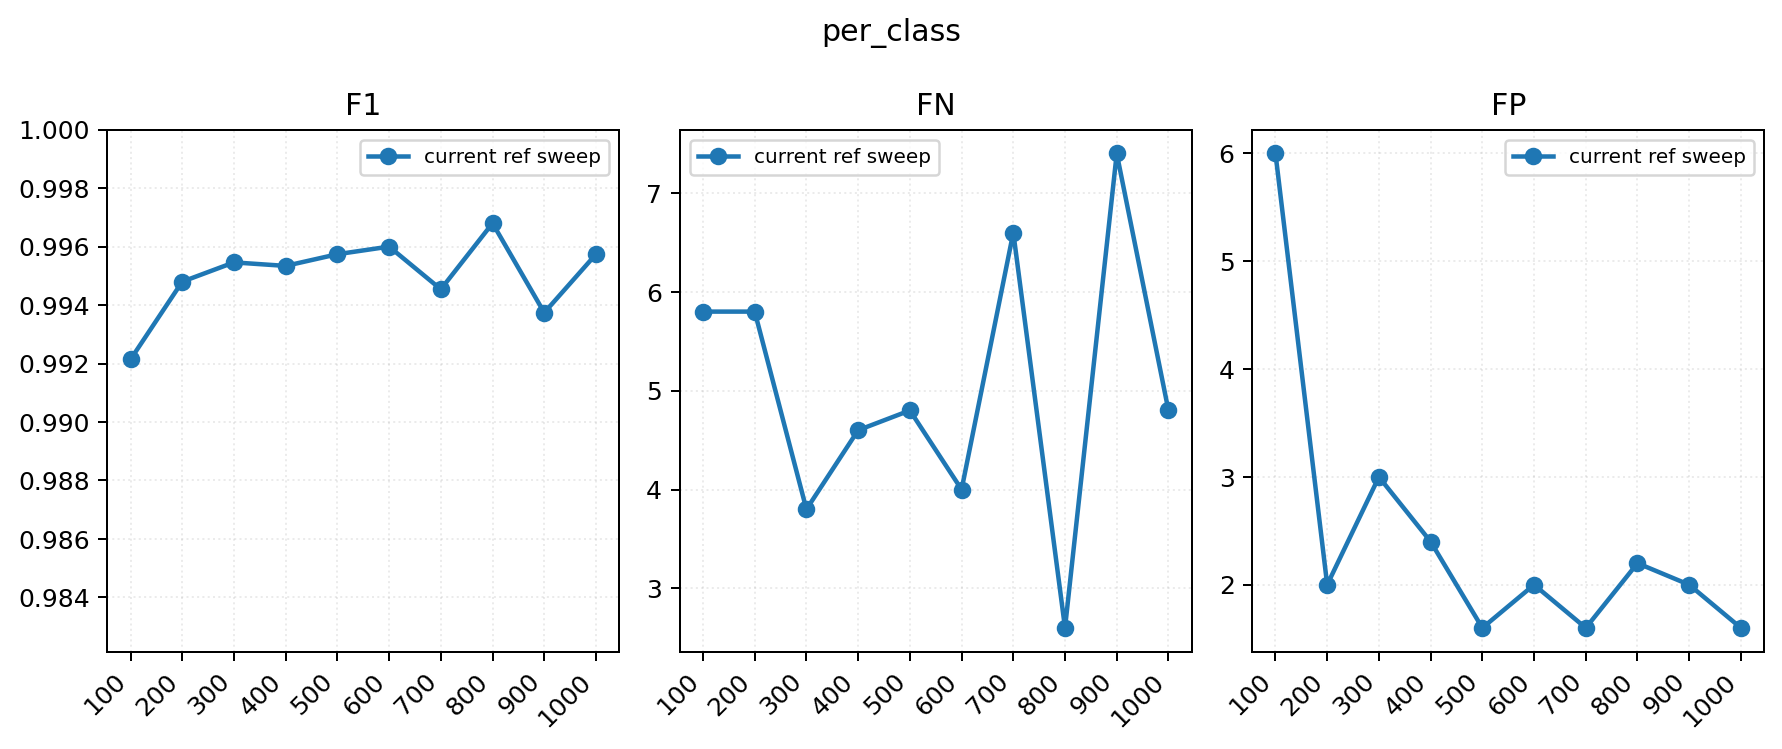
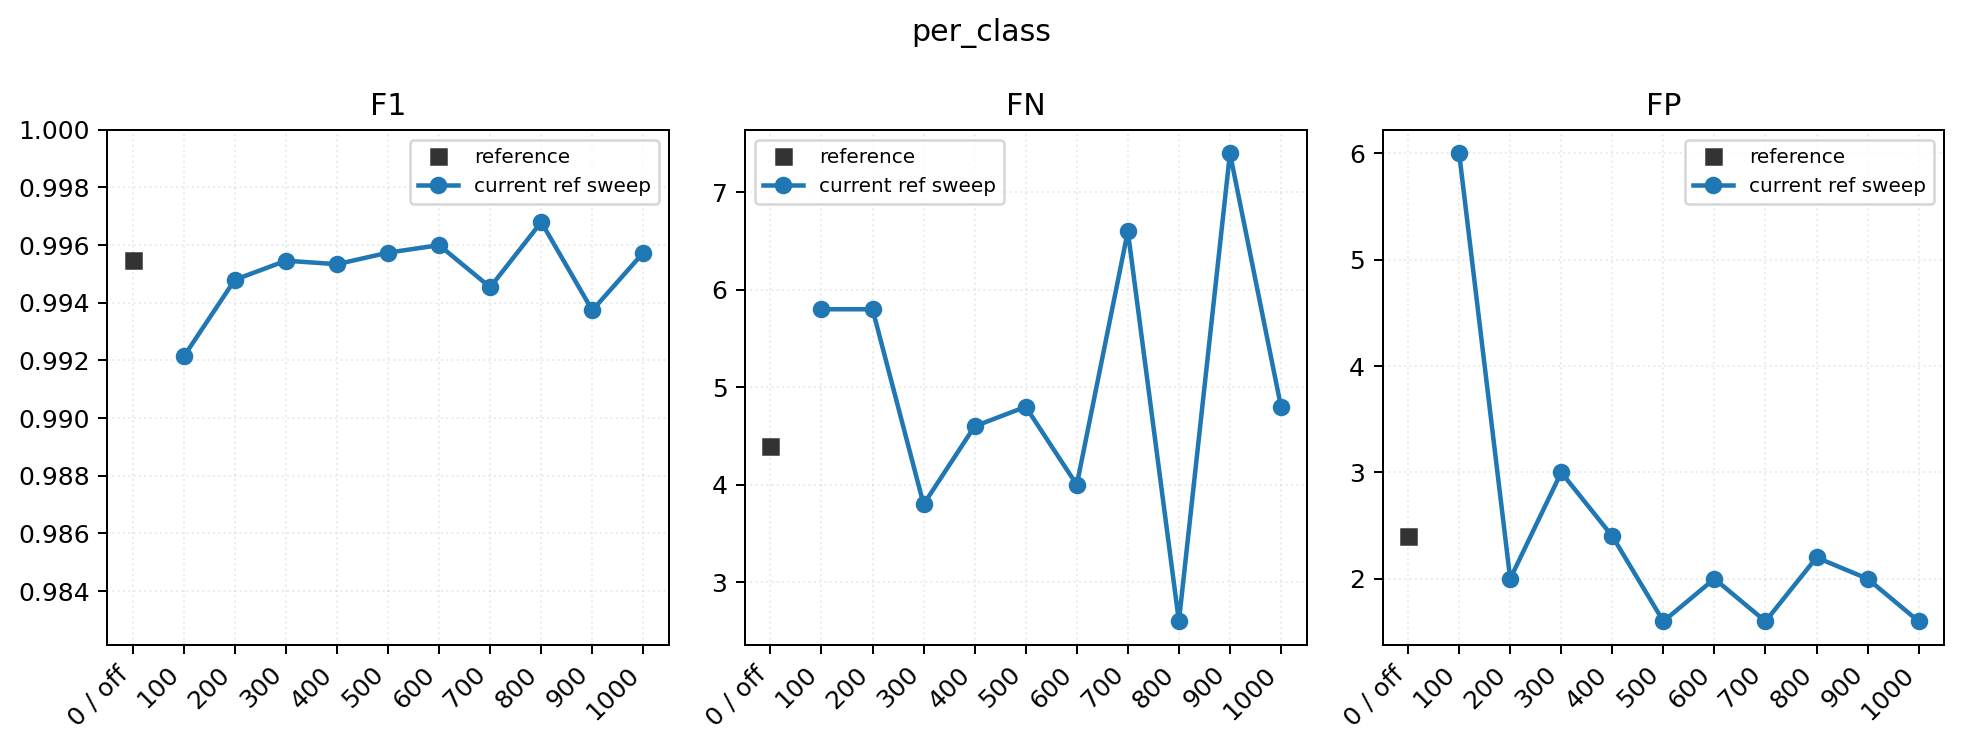
Use NT 0.9 reporting threshold

diff --git a/train.py b/train.py
@@ -560,7 +560,7 @@ def _confusion_matrix_np(y_true, y_pred, n_classes):
     return counts.reshape(n_classes, n_classes)
 
 
-def save_confusion_matrix(labels, preds, classes, save_path):
+def save_confusion_matrix(labels, preds, classes, save_path, title="Confusion Matrix (Best Model)"):
     """Confusion matrix 저장"""
     mat = _confusion_matrix_np(labels, preds, len(classes))
     fig, ax = plt.subplots(1, 1, figsize=(8, 6))
@@ -569,7 +569,7 @@ def save_confusion_matrix(labels, preds, classes, save_path):
                 xticklabels=short, yticklabels=short, ax=ax)
     ax.set_xlabel("Predicted", fontsize=10)
     ax.set_ylabel("Actual", fontsize=10)
-    ax.set_title("Confusion Matrix (Best Model)", fontsize=12)
+    ax.set_title(title, fontsize=12)
     plt.tight_layout()
     fig.savefig(save_path, dpi=150)
     plt.close(fig)
@@ -729,8 +729,8 @@ def main():
     parser.add_argument("--grad_clip", type=float, default=td("grad_clip", 1.0),
                         help="Gradient clip max_norm (default 1.0 = winning). 0.5/2.0/5.0 등 시도 가능.")
     parser.add_argument("--patience", type=int, default=td("patience", 5))
-    parser.add_argument("--normal_threshold", type=float, default=td("normal_threshold", 0.5),
-                        help="Inference threshold. 0.5=standard, 0.7=약간 conservative. 극한값(0.999+) 금지 — test-peeking 이고 production 에서 fragile.")
+    parser.add_argument("--normal_threshold", type=float, default=td("normal_threshold", 0.9),
+                        help="Selected inference threshold. 0.9 is the reporting default; extreme values (0.999+) are fragile/test-peeking.")
     parser.add_argument("--model_name", type=str, default=td("model_name", "convnextv2_tiny.fcmae_ft_in22k_in1k"))
     parser.add_argument("--freeze_backbone_epochs", type=int, default=td("freeze_backbone_epochs", 0))
     parser.add_argument("--label_smoothing", type=float, default=td("label_smoothing", 0.0))
@@ -1417,12 +1417,19 @@ def main():
             save_predictions(test_ds, test_preds, test_labels, classes, predictions_dir, correct_cap=100)
 
             # Confusion matrix 저장
-            save_confusion_matrix(test_labels, test_preds, classes, log_dir / "confusion_matrix.png")
+            save_confusion_matrix(
+                test_labels, test_preds, classes, log_dir / "confusion_matrix.png",
+                title="Confusion Matrix (argmax)",
+            )
 
             # Normal threshold 다중 평가
+            selected_nt = float(args.normal_threshold)
             nt_thresholds = [0.5, 0.9, 0.99, 0.999, 0.9999]
+            if not any(abs(nt - selected_nt) < 1e-12 for nt in nt_thresholds):
+                nt_thresholds.append(selected_nt)
+                nt_thresholds = sorted(nt_thresholds)
             nt_results = {}
-            best_nt = args.normal_threshold
+            selected_nt_result = None
 
             print(f"\n  Normal Threshold 평가:")
             for nt in nt_thresholds:
@@ -1430,15 +1437,21 @@ def main():
                     eval_model, test_loader, criterion, device, classes,
                     desc=f"NT={nt}", normal_threshold=nt, amp_dtype=amp_dtype,
                 )
-                nt_results[str(nt)] = {
+                nt_result = {
                     "acc": round(nt_acc, 4), "recall": round(nt_recall, 4),
                     "f1": round(nt_f1, 4), "metrics": nt_metrics_t,
                 }
-                marker = " ★" if nt == best_nt else ""
+                nt_results[f"{nt:g}"] = nt_result
+                is_selected_nt = abs(nt - selected_nt) < 1e-12
+                marker = " ★" if is_selected_nt else ""
                 print(f"    NT={nt}: acc={nt_acc:.3f} recall={nt_recall:.3f} f1={nt_f1:.3f}{marker}")
 
-                if nt == best_nt:
-                    save_confusion_matrix(nt_labels_t, nt_preds_t, classes, log_dir / "confusion_matrix_nt.png")
+                if is_selected_nt:
+                    selected_nt_result = nt_result
+                    save_confusion_matrix(
+                        nt_labels_t, nt_preds_t, classes, log_dir / "confusion_matrix_nt.png",
+                        title=f"Confusion Matrix (NT={nt:g})",
+                    )
 
             # Best 조건 저장
             best_info = {
@@ -1450,6 +1463,8 @@ def main():
                 "test_f1": round(test_f1, 4),
                 "test_acc": round(test_acc, 4),
                 "test_metrics": test_metrics,
+                "selected_normal_threshold": selected_nt,
+                "selected_normal_threshold_result": selected_nt_result,
                 "normal_threshold_results": nt_results,
                 "test_history": test_history,
                 "hparams": hparams,
@@ -1572,26 +1587,38 @@ def main():
         torch.save({k: v.to(device) for k, v in avg_state.items()},
                    str(log_dir / "best_model.pth"))
         # confusion matrix 갱신
-        save_confusion_matrix(test_labels_a, test_preds_a, classes,
-                              log_dir / "confusion_matrix.png")
+        save_confusion_matrix(
+            test_labels_a, test_preds_a, classes, log_dir / "confusion_matrix.png",
+            title="Confusion Matrix (argmax, averaged)",
+        )
         # predictions 갱신
         save_predictions(test_ds, test_preds_a, test_labels_a, classes,
                          predictions_dir, correct_cap=100)
 
         # NT sweep on averaged
+        selected_nt = float(args.normal_threshold)
+        avg_nt_values = [0.5, 0.6, 0.7, 0.8, 0.9]
+        if not any(abs(nt - selected_nt) < 1e-12 for nt in avg_nt_values):
+            avg_nt_values.append(selected_nt)
+            avg_nt_values = sorted(avg_nt_values)
         nt_results_a = {}
-        for nt in [0.5, 0.6, 0.7, 0.8, 0.9]:
+        selected_nt_result_a = None
+        for nt in avg_nt_values:
             _, nt_acc, nt_recall, nt_f1, nt_metrics_t, nt_preds_t, nt_labels_t = evaluate(
                 model, test_loader, criterion, device, classes,
                 desc=f"AvgNT={nt}", normal_threshold=nt, amp_dtype=amp_dtype,
             )
-            nt_results_a[str(nt)] = {
+            nt_result_a = {
                 "acc": round(nt_acc, 4), "recall": round(nt_recall, 4),
                 "f1": round(nt_f1, 4), "metrics": nt_metrics_t,
             }
-            if nt == args.normal_threshold:
-                save_confusion_matrix(nt_labels_t, nt_preds_t, classes,
-                                      log_dir / "confusion_matrix_nt.png")
+            nt_results_a[f"{nt:g}"] = nt_result_a
+            if abs(nt - selected_nt) < 1e-12:
+                selected_nt_result_a = nt_result_a
+                save_confusion_matrix(
+                    nt_labels_t, nt_preds_t, classes, log_dir / "confusion_matrix_nt.png",
+                    title=f"Confusion Matrix (NT={nt:g}, averaged)",
+                )
 
         # best metrics를 averaged로 교체
         best_test_metrics = test_metrics_a
@@ -1601,8 +1628,10 @@ def main():
         best_epoch = f"avg_last_{n_avg}"  # 표시용
         # nt_results 위해 변수 보관
         avg_nt_results = nt_results_a
+        avg_selected_nt_result = selected_nt_result_a
     else:
         avg_nt_results = None
+        avg_selected_nt_result = None
 
     # Training plots
     save_training_plots(history, log_dir)
@@ -1626,6 +1655,8 @@ def main():
         bi["test_recall"] = round(best_test_recall, 4)
         bi["test_acc"] = round(test_acc_a, 4)
         bi["test_metrics"] = best_test_metrics
+        bi["selected_normal_threshold"] = float(args.normal_threshold)
+        bi["selected_normal_threshold_result"] = avg_selected_nt_result
         bi["normal_threshold_results"] = avg_nt_results
         bi["averaging"] = {"enabled": True, "last_n": len(avg_buffer)}
 

diff --git a/scripts/generate_strict_one_factor_report.py b/scripts/generate_strict_one_factor_report.py
@@ -132,6 +132,7 @@ LR_SCHEDULE_BACKBONE_BASE = 2e-5
 
 FAMILY_BASELINES: dict[str, tuple[str, float | str]] = {
     "normal_ratio": ("700", 700.0),
+    "per_class": ("0 / off", 0.0),
     "lr": ("2e-5 / 2e-4", 2e-5),
     "warmup": ("5", 5.0),
     "gc": ("1", 1.0),

diff --git a/CLI.md b/CLI.md
@@ -11,7 +11,7 @@ python train.py \
     --normal_ratio 700 --seed 1 \
     --lr_backbone 3e-5 --lr_head 3e-4 \
     --min_epochs 10 --patience 20 \
-    --normal_threshold 0.5 \
+    --normal_threshold 0.9 \
     --log_dir logs/v9_lr3_n700_s1_p20
 ```
 
@@ -76,7 +76,7 @@ python train.py \
 | `--max_per_class` | 0 | 클래스당 최대 샘플 (0 = 제한 없음) |
 | `--mode` | binary | `binary` / `multiclass` / `anomaly_type` |
 | `--seed` | 42 | random seed |
-| `--normal_threshold` | 0.5 | inference NT. **test peek 금지 위해 0.5 고정** |
+| `--normal_threshold` | 0.9 | selected inference/reporting NT. per-run test tuning 금지 |
 
 ### 2.5 Model
 
@@ -113,7 +113,7 @@ python train.py \
     --normal_ratio 700 --seed 1 \
     --lr_backbone 3e-5 --lr_head 3e-4 \
     --min_epochs 10 --patience 20 \
-    --normal_threshold 0.5 \
+    --normal_threshold 0.9 \
     --log_dir logs/v9_lr3_n700_s1_p20
 ```
 
@@ -124,7 +124,7 @@ python train.py \
     --normal_ratio 2800 --seed 1 \
     --lr_backbone 3e-5 --lr_head 3e-4 \
     --min_epochs 10 --patience 20 \
-    --normal_threshold 0.5 \
+    --normal_threshold 0.9 \
     --log_dir logs/v9_lr3_n2800_s1_p20
 ```
 
@@ -135,7 +135,7 @@ python train.py \
     --normal_ratio 1400 --seed 1 \
     --lr_backbone 3e-5 --lr_head 3e-4 \
     --min_epochs 10 --avg_last_n 5 \
-    --normal_threshold 0.5 \
+    --normal_threshold 0.9 \
     --log_dir logs/v9_lr3_n1400_s1_avg5
 ```
 
@@ -147,7 +147,7 @@ for s in 1 2 4 42; do
       --normal_ratio 700 --seed $s \
       --lr_backbone 3e-5 --lr_head 3e-4 \
       --min_epochs 10 --patience 20 \
-      --normal_threshold 0.5 \
+      --normal_threshold 0.9 \
       --log_dir logs/v9_lr3_n700_s${s}_p20
 done
 ```
@@ -159,7 +159,7 @@ python train.py \
     --normal_ratio 2800 --seed 1 \
     --lr_backbone 3e-5 --lr_head 3e-4 \
     --min_epochs 10 --patience 20 \
-    --normal_threshold 0.5 \
+    --normal_threshold 0.9 \
     --precision bf16 --compile \
     --batch_size 64 \
     --num_workers 16 --prefetch_factor 16 \
@@ -173,7 +173,7 @@ python train.py \
     --normal_ratio 2800 --seed 1 \
     --lr_backbone 3e-5 --lr_head 3e-4 \
     --min_epochs 10 --patience 20 \
-    --normal_threshold 0.5 \
+    --normal_threshold 0.9 \
     --ema_decay 0.9999 \
     --log_dir logs/v9_lr3_ema9999_n2800_s1
 ```
@@ -187,7 +187,7 @@ python train.py \
     --lr_backbone 2e-5 --lr_head 2e-4 \
     --min_epochs 10 --patience 10 \
     --label_smoothing 0.05 \
-    --normal_threshold 0.5 \
+    --normal_threshold 0.9 \
     --log_dir logs/v9_6cls_s1
 ```
 
@@ -198,7 +198,7 @@ python train.py \
     --normal_ratio 700 --seed 1 \
     --lr_backbone 3e-5 --lr_head 3e-4 \
     --min_epochs 10 --patience 20 \
-    --normal_threshold 0.5 \
+    --normal_threshold 0.9 \
     --eval_test_every_epoch \
     --log_dir logs/v9_lr3_n700_s1_evalall
 ```
@@ -314,8 +314,8 @@ logs/<run_dir>/
 ├── history.json               # epoch 별 train/val 기록
 ├── test_history.json          # best update 시점의 test 평가 누적
 ├── training_curves.png        # loss/f1/lr 곡선
-├── confusion_matrix.png       # NT=0.5 CM
-├── confusion_matrix_nt.png    # NT=default CM
+├── confusion_matrix.png       # argmax CM
+├── confusion_matrix_nt.png    # selected NT CM (default NT=0.9)
 ├── train.py                   # 실험 당시 train.py 스냅샷 (스크립트가 복사)
 └── predictions/
     ├── tn_normal/             # True Negative (cap 100)
@@ -328,7 +328,7 @@ logs/<run_dir>/
 
 ## 6. 주의사항 (절대 규칙)
 
-1. **NT=0.5 고정**: test peek 금지. `--normal_threshold 0.5` 만 사용.
+1. **NT=0.9 고정**: reporting/inference 기준. run마다 test 결과를 보고 threshold를 바꾸지 말 것.
 2. **학습 결과 폴더 삭제 금지**: `logs/<run_dir>/` 은 보존. 새 실험은 새 이름.
 3. **Binary 모드 우선**: abnormal recall 최우선 지표. `--mode binary`.
 4. **GPU 확인**: `python -c "import torch; print(torch.cuda.is_available())"` → `True` 확인.

diff --git a/docs/summary.md b/docs/summary.md
@@ -1,6 +1,6 @@
 # 실험 요약
 
-_자동 갱신 시각: `2026-04-28T11:17:27`._
+_자동 갱신 시각: `2026-04-28T12:45:39`._
 
 ## 결과 해석
 
@@ -127,6 +127,7 @@ _아직 one-factor evidence 단계입니다. round-2 종료 후 joint combo vali
 
 | condition | seeds | F1 | ΔF1 | FN | ΔFN | FP | ΔFP | status |
 | --- | ---: | ---: | ---: | ---: | ---: | ---: | ---: | --- |
+| 0 / off | 5/5 | 0.9955 | 0 | 4.4 | 0 | 2.4 | 0 | 기준 |
 | 100 | 5/5 | 0.9921 | -0.0033 | 5.8 | +1.4 | 6 | +3.6 | 완료 |
 | 200 | 5/5 | 0.9948 | -0.0007 | 5.8 | +1.4 | 2 | -0.4 | 완료 |
 | 300 | 5/5 | 0.9955 | -0 | 3.8 | -0.6 | 3 | +0.6 | 완료 |
